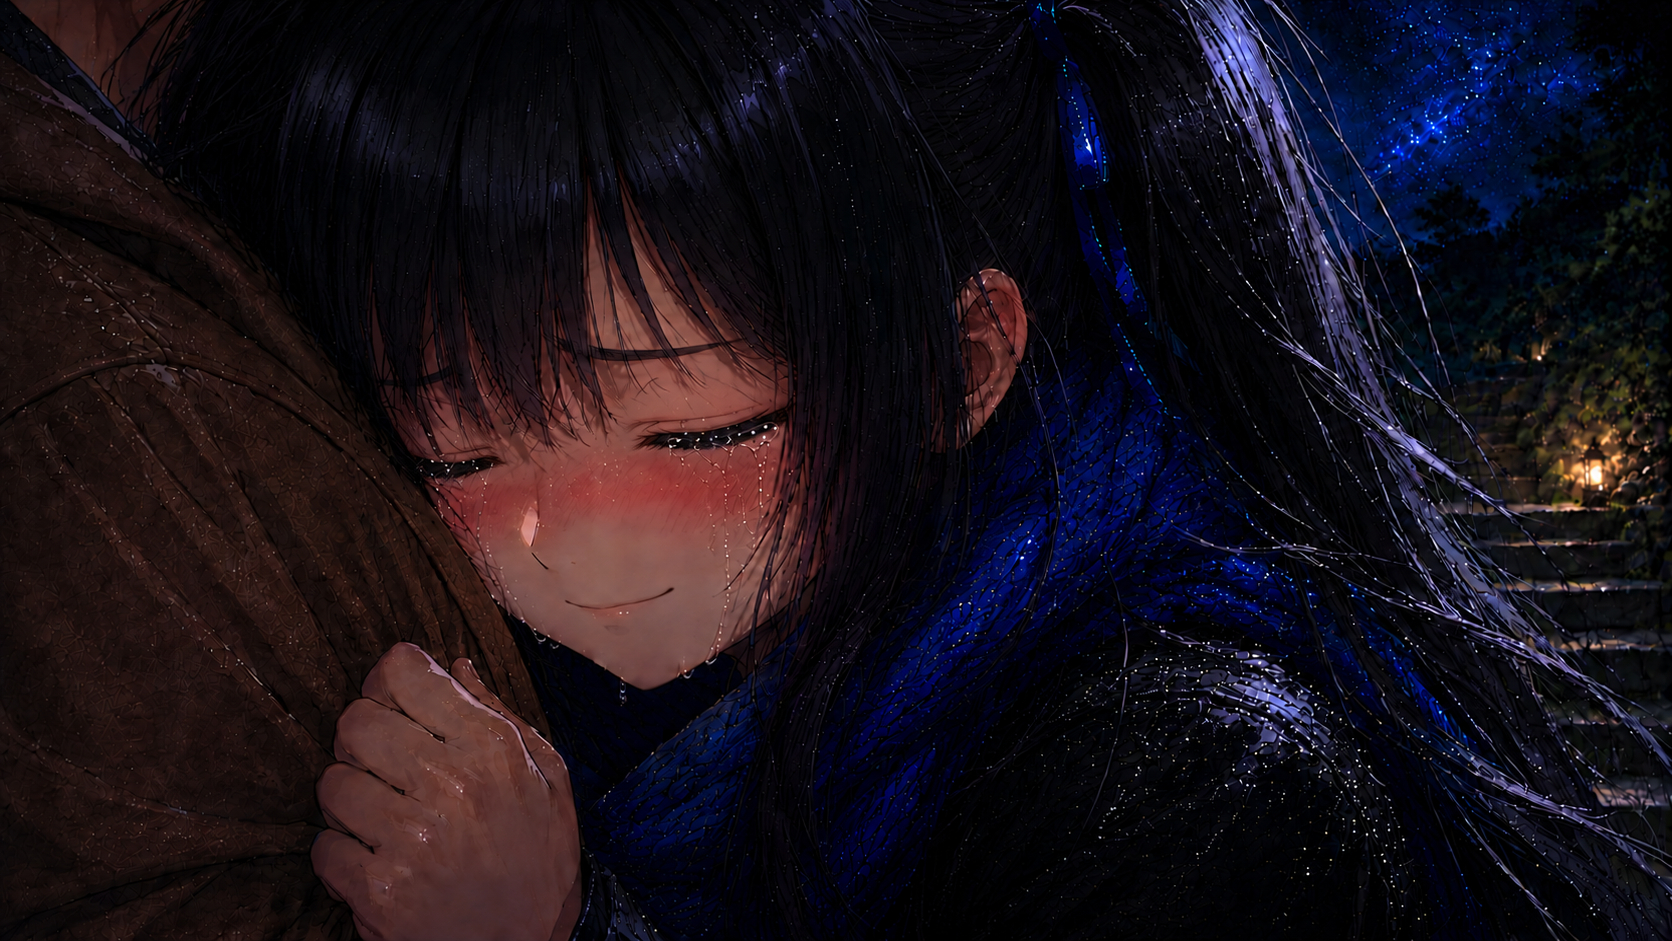
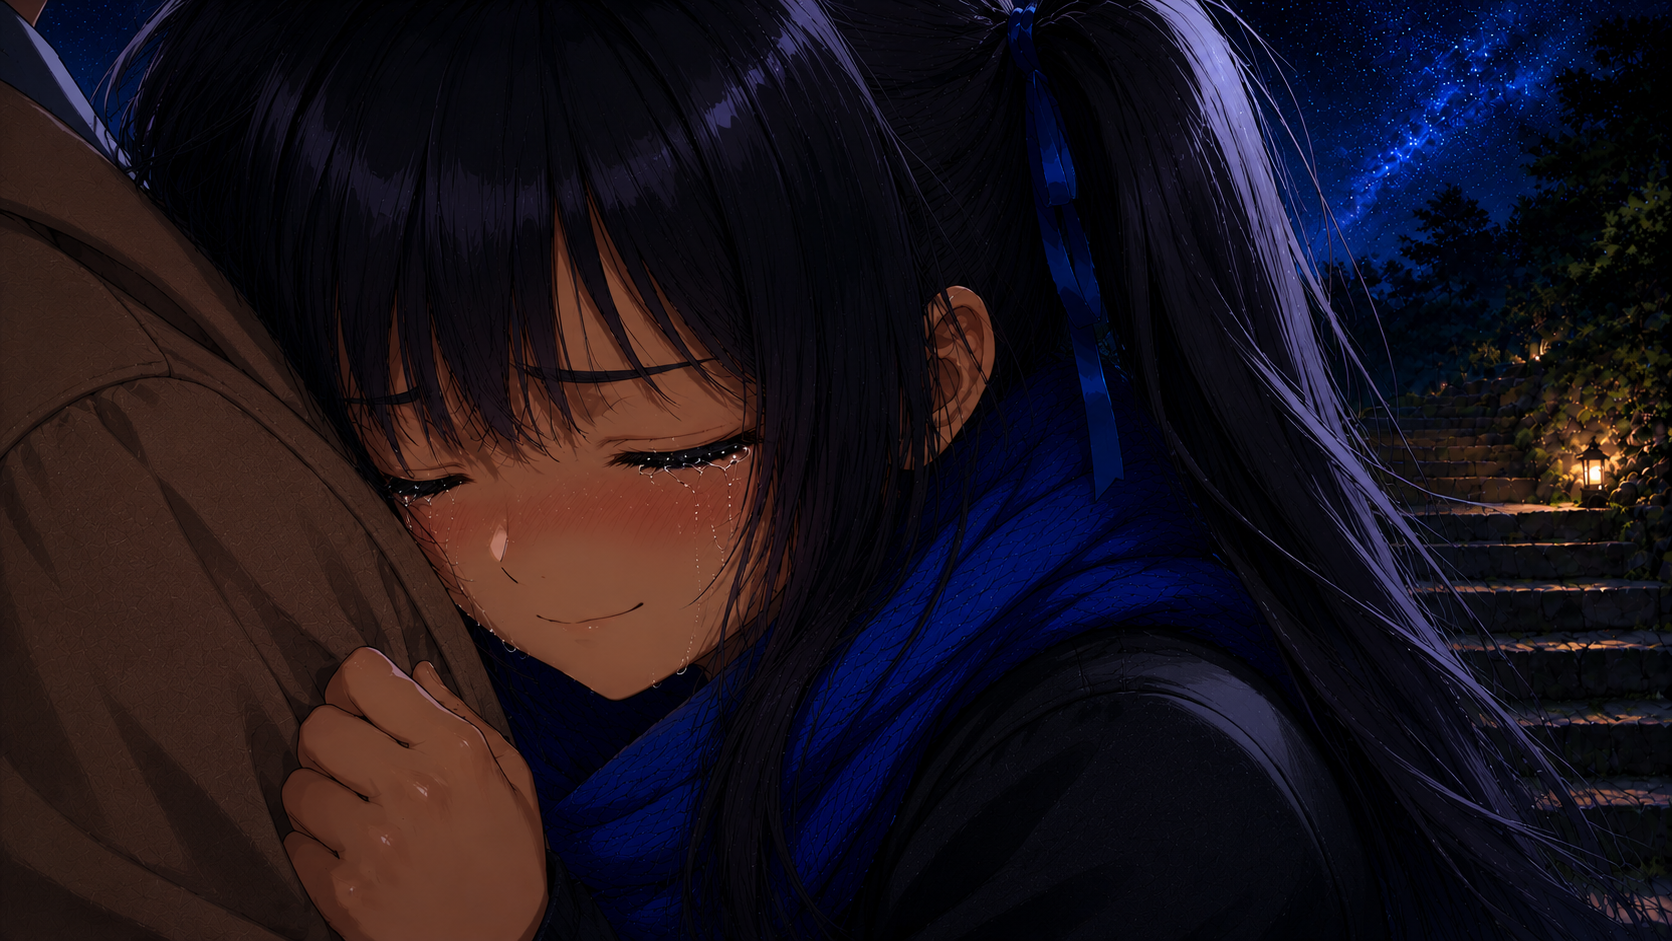
Add files via upload

diff --git a/index.html b/index.html
@@ -6,16 +6,16 @@
   <meta http-equiv="Cache-Control" content="no-store, no-cache, must-revalidate" />
   <meta http-equiv="Pragma" content="no-cache" />
   <meta http-equiv="Expires" content="0" />
-  <title>店長お疲れ様です v039_179</title>
-  <link rel="icon" href="favicon.ico?v=v039_179" sizes="any" />
-  <link rel="stylesheet" href="program/v039/core.css?v=v039_179" />
-  <link rel="stylesheet" href="program/v039/officeUiSurfaceFix.css?v=v039_179" />
-  <link rel="stylesheet" href="program/v039/bootSurfaceGuard.css?v=v039_179" />
-  <link rel="stylesheet" href="program/v039/battle.css?v=v039_179" />
-  <link rel="stylesheet" href="program/v039/rivalBattle.css?v=v039_179" />
-  <link rel="stylesheet" href="program/v039/eventBattle.css?v=v039_179" />
-  <link rel="stylesheet" href="program/v039/characterGrowth.css?v=v039_179" />
-  <link rel="stylesheet" href="program/v039/storyMenu.css?v=v039_179" />
+  <title>店長お疲れ様です v039_180</title>
+  <link rel="icon" href="favicon.ico?v=v039_180" sizes="any" />
+  <link rel="stylesheet" href="program/v039/core.css?v=v039_180" />
+  <link rel="stylesheet" href="program/v039/officeUiSurfaceFix.css?v=v039_180" />
+  <link rel="stylesheet" href="program/v039/bootSurfaceGuard.css?v=v039_180" />
+  <link rel="stylesheet" href="program/v039/battle.css?v=v039_180" />
+  <link rel="stylesheet" href="program/v039/rivalBattle.css?v=v039_180" />
+  <link rel="stylesheet" href="program/v039/eventBattle.css?v=v039_180" />
+  <link rel="stylesheet" href="program/v039/characterGrowth.css?v=v039_180" />
+  <link rel="stylesheet" href="program/v039/storyMenu.css?v=v039_180" />
 </head>
 <body>
   <main id="game-container" aria-label="店長お疲れ様です">
@@ -27,43 +27,43 @@
     window.__TENOTSU_DISABLE_LEGACY_OBSERVERS__ = true;
     window.__TENOTSU_DISABLE_RANDOMSHOW_VISUALS__ = true;
   </script>
-  <script src="program/v039/version.js?v=v039_179"></script>
-  <script src="program/v039/state.js?v=v039_179"></script>
-  <script src="program/v039/assets.js?v=v039_179"></script>
-  <script src="program/v039/layers.js?v=v039_179"></script>
-  <script src="program/v039/transitions.js?v=v039_179"></script>
-  <script src="program/v039/office.js?v=v039_179"></script>
-  <script src="program/v039/shop.js?v=v039_179"></script>
-  <script src="program/v039/storeStatus.js?v=v039_179"></script>
-  <script src="program/v039/tuning.js?v=v039_179"></script>
-  <script src="program/v039/members.js?v=v039_179"></script>
-  <script src="program/v039/stamina.js?v=v039_179"></script>
-  <script src="program/v039/battlePoint.js?v=v039_179"></script>
-  <script src="program/v039/eventBattlePoint.js?v=v039_179"></script>
-  <script src="program/v039/applianceAliens.js?v=v039_179"></script>
-  <script src="program/v039/sales.js?v=v039_179"></script>
-  <script src="program/v039/characterGrowth.js?v=v039_179"></script>
-  <script src="program/v039/battleResult.js?v=v039_179"></script>
-  <script src="program/v039/inputGuard.js?v=v039_179"></script>
-  <script src="program/v039/battle.js?v=v039_179"></script>
-  <script src="program/v039/rivalBattle.js?v=v039_179"></script>
-  <script src="program/v039/eventBattle.js?v=v039_179"></script>
-  <script src="scenario/v039/storyIndex.js?v=v039_179"></script>
-  <script src="scenario/v039/keyStoryConfig.js?v=v039_179"></script>
-  <script src="scenario/v039/affectionStoryPlan.js?v=v039_179"></script>
-  <script src="scenario/v039/townEncounterConfig.js?v=v039_179"></script>
-  <script src="scenario/v039/backgroundCatalog.js?v=v039_179"></script>
-  <script src="program/v039/eventData.js?v=v039_179"></script>
-  <script src="program/v039/eventState.js?v=v039_179"></script>
-  <script src="program/v039/town.js?v=v039_179"></script>
-  <script src="program/v039/storyPlayer.js?v=v039_179"></script>
-  <script src="program/v039/storyBgPreloadTransition.js?v=v039_179"></script>
-  <script src="program/v039/storyLayout.js?v=v039_179"></script>
-  <script src="program/v039/storyProgress.js?v=v039_179"></script>
-  <script src="program/v039/memberStorySlots.js?v=v039_179"></script>
-  <script src="program/v039/storyMenu.js?v=v039_179"></script>
-  <script src="program/v039/storyMenuLvTitlePatch.js?v=v039_179"></script>
-    <script src="program/v039/bootSurfaceGuard.js?v=v039_179"></script>
-  <script src="program/v039/app.js?v=v039_179"></script>
+  <script src="program/v039/version.js?v=v039_180"></script>
+  <script src="program/v039/state.js?v=v039_180"></script>
+  <script src="program/v039/assets.js?v=v039_180"></script>
+  <script src="program/v039/layers.js?v=v039_180"></script>
+  <script src="program/v039/transitions.js?v=v039_180"></script>
+  <script src="program/v039/office.js?v=v039_180"></script>
+  <script src="program/v039/shop.js?v=v039_180"></script>
+  <script src="program/v039/storeStatus.js?v=v039_180"></script>
+  <script src="program/v039/tuning.js?v=v039_180"></script>
+  <script src="program/v039/members.js?v=v039_180"></script>
+  <script src="program/v039/stamina.js?v=v039_180"></script>
+  <script src="program/v039/battlePoint.js?v=v039_180"></script>
+  <script src="program/v039/eventBattlePoint.js?v=v039_180"></script>
+  <script src="program/v039/applianceAliens.js?v=v039_180"></script>
+  <script src="program/v039/sales.js?v=v039_180"></script>
+  <script src="program/v039/characterGrowth.js?v=v039_180"></script>
+  <script src="program/v039/battleResult.js?v=v039_180"></script>
+  <script src="program/v039/inputGuard.js?v=v039_180"></script>
+  <script src="program/v039/battle.js?v=v039_180"></script>
+  <script src="program/v039/rivalBattle.js?v=v039_180"></script>
+  <script src="program/v039/eventBattle.js?v=v039_180"></script>
+  <script src="scenario/v039/storyIndex.js?v=v039_180"></script>
+  <script src="scenario/v039/keyStoryConfig.js?v=v039_180"></script>
+  <script src="scenario/v039/affectionStoryPlan.js?v=v039_180"></script>
+  <script src="scenario/v039/townEncounterConfig.js?v=v039_180"></script>
+  <script src="scenario/v039/backgroundCatalog.js?v=v039_180"></script>
+  <script src="program/v039/eventData.js?v=v039_180"></script>
+  <script src="program/v039/eventState.js?v=v039_180"></script>
+  <script src="program/v039/town.js?v=v039_180"></script>
+  <script src="program/v039/storyPlayer.js?v=v039_180"></script>
+  <script src="program/v039/storyBgPreloadTransition.js?v=v039_180"></script>
+  <script src="program/v039/storyLayout.js?v=v039_180"></script>
+  <script src="program/v039/storyProgress.js?v=v039_180"></script>
+  <script src="program/v039/memberStorySlots.js?v=v039_180"></script>
+  <script src="program/v039/storyMenu.js?v=v039_180"></script>
+  <script src="program/v039/storyMenuLvTitlePatch.js?v=v039_180"></script>
+    <script src="program/v039/bootSurfaceGuard.js?v=v039_180"></script>
+  <script src="program/v039/app.js?v=v039_180"></script>
 </body>
 </html>

diff --git a/program/v039/version.js b/program/v039/version.js
@@ -1,13 +1,13 @@
-/* v039_179 version */
+/* v039_180 version */
 (function(){
   "use strict";
-  window.TENOTSU_VERSION = "v039_179";
-  window.TENOTSU_BUILD_VERSION = "v039_179";
-  window.TENOTSU_VERSION_LABEL = "v039_179 夜空60CG差し替え＋背景プリロード遷移マージパッチ";
-  window.TENOTSU_BUILD_LABEL = "v039_179 夜空60CG差し替え＋背景プリロード遷移マージパッチ";
+  window.TENOTSU_VERSION = "v039_180";
+  window.TENOTSU_BUILD_VERSION = "v039_180";
+  window.TENOTSU_VERSION_LABEL = "v039_180 夜空60イベントCG5枚正式差し替えパッチ";
+  window.TENOTSU_BUILD_LABEL = "v039_180 夜空60イベントCG5枚正式差し替えパッチ";
   window.TENOTSU_VERSION_NOTES = [
-    "夜空『夜空のままで』ステップ182の3枚目イベントCGを差し替え",
-    "v039_178の背景プリロード→切替→テキスト進行補正をマージ",
-    "v039_177までの夜空60イベントCG進行を維持"
+    "夜空『夜空のままで』のイベントCG5枚を正式差し替え",
+    "ステップ133・157・182・217・262でCGを切り替え",
+    "背景プリロード遷移補正は維持"
   ];
 })();

diff --git a/program/v039/state.js b/program/v039/state.js
@@ -2,8 +2,8 @@
   "use strict";
   window.TENOTSU_V039 = window.TENOTSU_V039 || {};
   const ns = window.TENOTSU_V039;
-  ns.VERSION = window.TENOTSU_BUILD_VERSION || ns.VERSION || "v039_179";
-  ns.BUILD_LABEL = window.TENOTSU_BUILD_LABEL || ns.BUILD_LABEL || "v039_179";
+  ns.VERSION = window.TENOTSU_BUILD_VERSION || ns.VERSION || "v039_180";
+  ns.BUILD_LABEL = window.TENOTSU_BUILD_LABEL || ns.BUILD_LABEL || "v039_180";
   ns.state = ns.state || { mode:"boot", officeSelection:[], frontCharacter:null, bootedAt:Date.now() };
   ns.state.mode = ns.state.mode || "boot";
   ns.setMode = function(mode){

diff --git a/README_DIFF.md b/README_DIFF.md
@@ -1,7 +1,7 @@
 差分パッチ名 / 登録名 / 更新対象一覧
 
-- 差分パッチ名: ten_otsu_v039_179_yozora60_step182_cg_bgpreload_merge_patch.zip
-- 登録名: v039_179 夜空60CG差し替え＋背景プリロード遷移マージパッチ
+- 差分パッチ名: ten_otsu_v039_180_yozora60_cg5_official_patch.zip
+- 登録名: v039_180 夜空60イベントCG5枚正式差し替えパッチ
 - 更新対象一覧:
   - index.html
   - VERSION.txt
@@ -9,12 +9,17 @@
   - program/v039/state.js
   - program/v039/storyBgPreloadTransition.js
   - scenario/v039/events/yozora_affection_60_00_main.json
+  - images/assets/cg/cg_yozora_main60_hug_01.png
+  - images/assets/cg/cg_yozora_main60_hug_02.png
   - images/assets/cg/cg_yozora_main60_hug_03.png
+  - images/assets/cg/cg_yozora_main60_hug_04.png
+  - images/assets/cg/cg_yozora_main60_hug_05.png
 
-概要:
-- 「夜空のままで」ステップ182の3枚目イベントCGを差し替え。
-- v039_178で案内した「背景変更時に次背景を先読みしてから差し替え、テキスト進行前に反映する」補正を同梱。
-- v039_177までの夜空60イベントCG差し替え進行を維持。
-
-適用順:
-- v039_177 適用後、またはそれ以降の環境へ上書き。
+反映内容:
+- ストーリー「夜空のままで」のイベントCGを5枚正式差し替え。
+- ステップ133: 1枚目
+- ステップ157: 2枚目
+- ステップ182: 3枚目
+- ステップ217: 4枚目
+- ステップ262: 5枚目
+- v039_179の背景プリロード遷移補正を維持。
